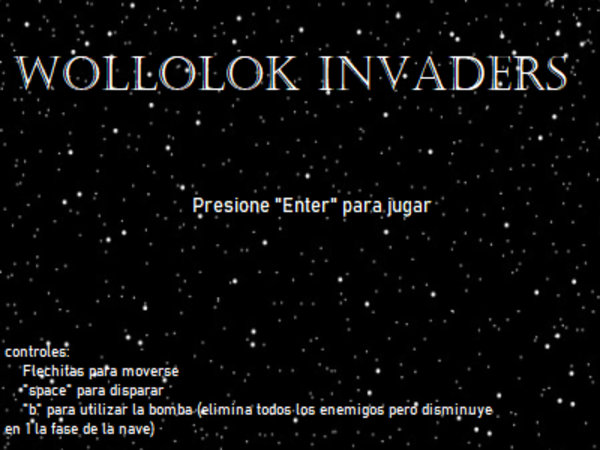
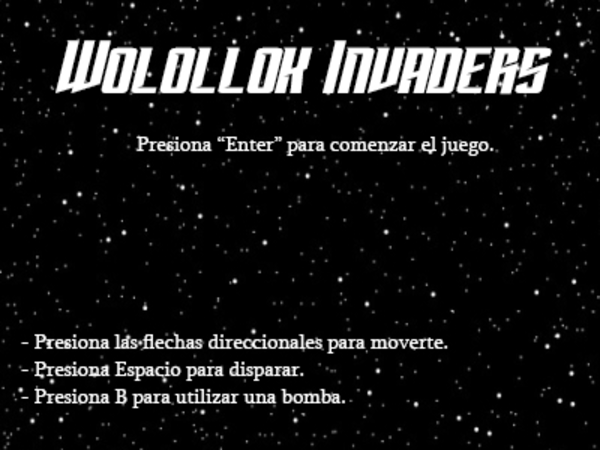
Cambiado el readme y las imagenes de inicio y reset

diff --git a/README.md b/README.md
@@ -1,22 +1,29 @@
-# Nombre del juego (<- borrar y completar)
+# Wolollok Invaders
 
 ## Equipo de desarrollo
 
-- Alguien
-- Persona
-- etc.
+- Gomez, Lautaro
+- Hidalgo, Franco
+- Martini, Giovanni
+- Meza, Tomás
 
 ## Capturas
 
-(agregar)
+Wollolok_Menu.png
+Wolollok_Reinicio.png
 
 ## Reglas de Juego / Instrucciones
 
-(Escribirlas)
+- Presiona Enter para comenzar el juego.
+- Presiona las flechas direccionales para moverte.
+- Presiona Espacio para disparar.
+- Presiona B para utilizar una bomba.
+- Al agarrar un power up (el símbolo de wollok) la nave aumenta de fase, mejorando sus disparos.
+- Al usar una bomba, mueren todos los enemigos en pantalla, pero la nave pierde una fase.
+- No se puede usar una bomba si la nave está en la primera fase.
 
 
 ## Otros
 
-- Curso/Facultad
+- Programación con Objetos I - Comisión 1 - Universidad Nacional de Hurlingham
 - Versión de wollok
-- Una vez terminado, no tenemos problemas en que el repositorio sea público / queremos manternerlo privado
